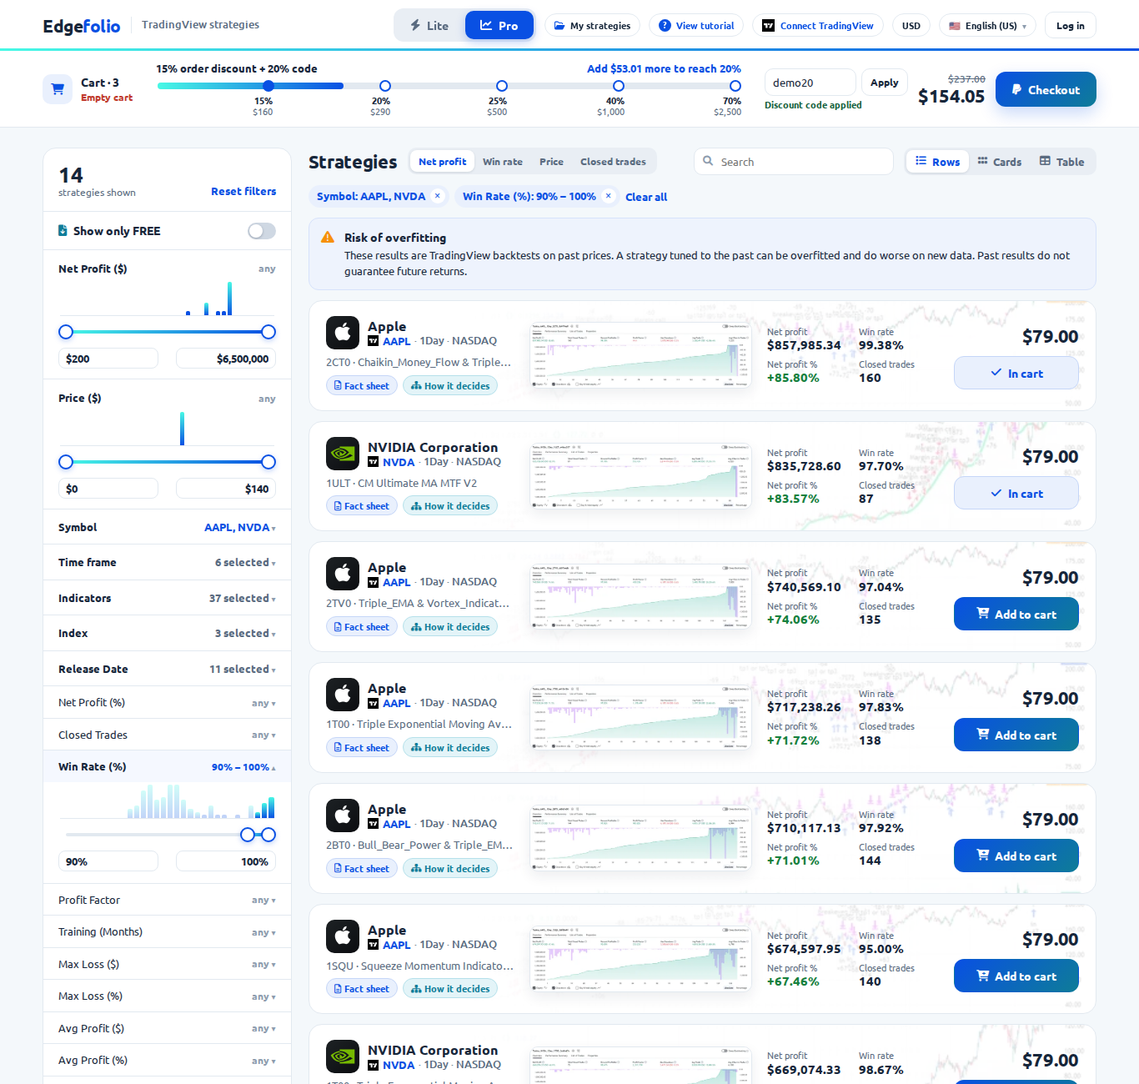
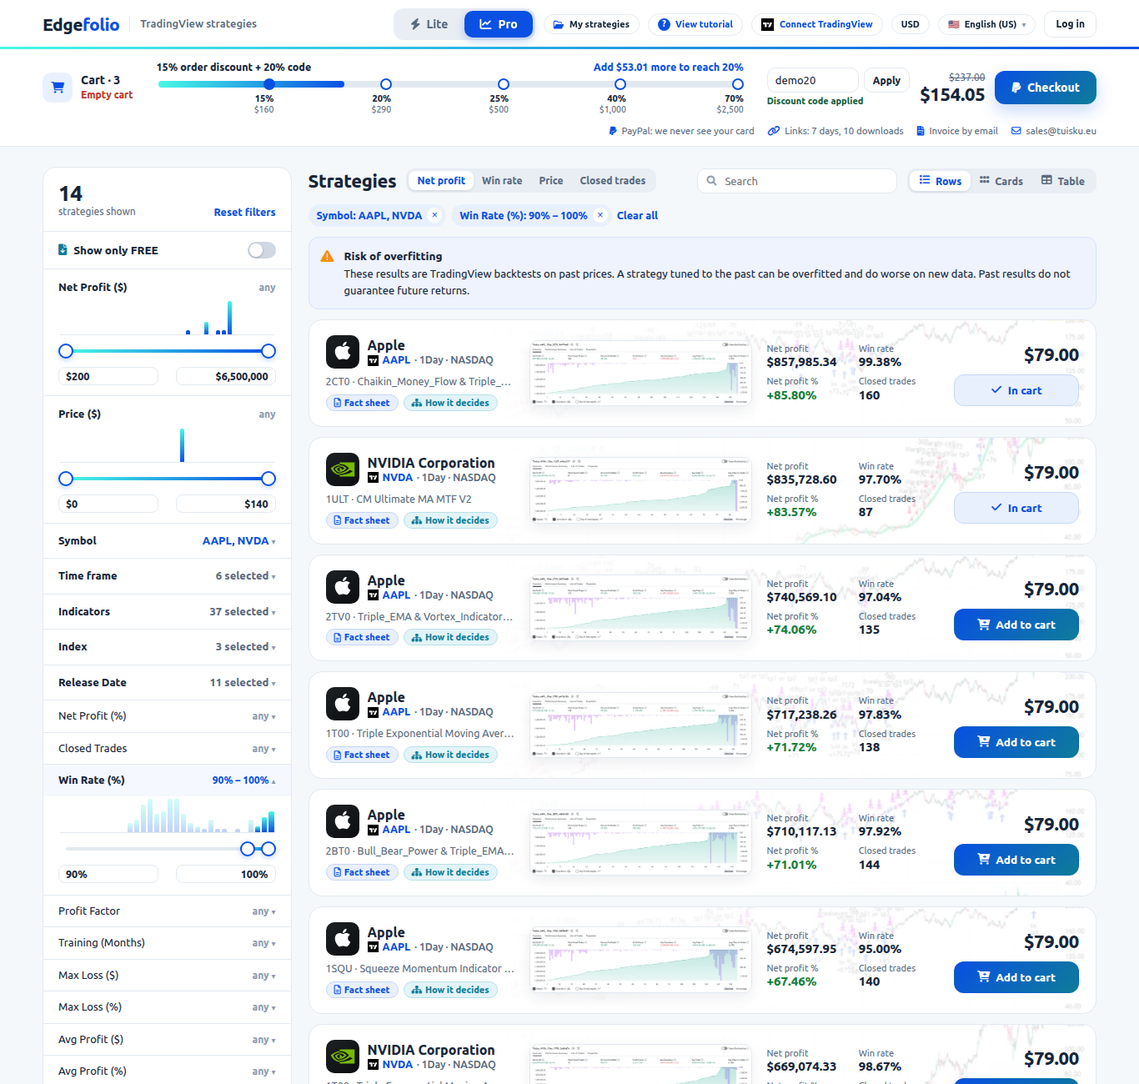
Trust row under Checkout (design export of 6 Oct) and the receipt email
- Lite floating cart and Pro cart strip show the design's trust row: PayPal,
  link lifetime and downloads (from DOWNLOAD_DAYS / MAX_DOWNLOADS), invoice
  by email and CONTACT_EMAIL (LTR in Arabic).
- "Invoice by email" is now true: the capture that turns an order PAID
  emails its receipt (core mail.send, in the page's language), line by line,
  without download links. No public address: no receipt, payment unaffected.
- docs/design and IMPLEMENTATION-v7.md updated to the new handoff; README
  and its Lite/Pro screenshots refreshed.

Claude-Session: https://claude.ai/code/session_012EAXLkwBLpxS2P3pKzZpSr

diff --git a/docs/design/Storefront v7.dc.html b/docs/design/Storefront v7.dc.html
@@ -142,6 +142,12 @@ a:hover{text-decoration:underline}
           <sc-if value="{{ codeOpen }}" hint-placeholder-val="{{ false }}"><span style="display:flex;gap:6px;align-items:center"><input value="{{ code }}" onChange="{{ onCode }}" placeholder="{{ tx.codePh }}" style="width:100px;font-family:inherit;font-size:13px;color:#16263a;border:1px solid #e2e9f0;border-radius:10px;padding:6px 9px"><button onClick="{{ applyCode }}" style="font-family:inherit;background:#fff;border:1px solid #e2e9f0;color:#16263a;font-weight:600;border-radius:10px;padding:6px 10px;font-size:12px;cursor:pointer">{{ tx.apply }}</button></span></sc-if>
           <span style="margin-inline-start:auto;text-align:end;line-height:1.15"><span style="display:block;font-size:11.5px;color:#5a6b80;text-decoration:line-through">{{ subtotal }}</span><span style="font-size:20px;font-weight:700;letter-spacing:-.3px">{{ total }}</span><sc-if value="{{ isLocal }}" hint-placeholder-val="{{ false }}"><span style="display:block;font-size:10.5px;color:#5a6b80">{{ payNote }}</span></sc-if></span>
           <button onClick="{{ checkout }}" style="font-family:inherit;background:#0950e3;border:none;color:#fff;font-weight:700;border-radius:12px;padding:12px 20px;font-size:14px;cursor:pointer;box-shadow:0 8px 20px rgba(9,80,227,.22);display:inline-flex;gap:8px;align-items:center"><i class="fa-brands fa-paypal"></i>{{ tx.checkout }}</button>
+          <div style="flex:1 1 100%;display:flex;flex-wrap:wrap;gap:6px 16px;padding-top:8px;border-top:1px solid #eef2f6;font-size:11.5px;color:#5a6b80">
+            <span style="display:inline-flex;gap:6px;align-items:center"><i class="fa-brands fa-paypal" style="color:#0950e3"></i>{{ tx.trustPaypal }}</span>
+            <span style="display:inline-flex;gap:6px;align-items:center"><i class="fa-solid fa-link" style="color:#0950e3"></i>{{ tx.trustLinks }}</span>
+            <span style="display:inline-flex;gap:6px;align-items:center"><i class="fa-solid fa-file-invoice" style="color:#0950e3"></i>{{ tx.trustInvoice }}</span>
+            <a href="mailto:sales@tuisku.eu" dir="ltr" style="display:inline-flex;gap:6px;align-items:center;color:#5a6b80;text-decoration:none"><i class="fa-regular fa-envelope" style="color:#0950e3"></i>sales@tuisku.eu</a>
+          </div>
         </div>
       </div>
     </sc-if>
@@ -164,6 +170,12 @@ a:hover{text-decoration:underline}
           <div style="display:flex;flex-direction:column;gap:2px"><div style="display:flex;gap:6px"><input value="{{ code }}" onChange="{{ onCode }}" placeholder="{{ tx.codePh }}" style="width:110px;font-family:inherit;font-size:13px;color:#16263a;border:1px solid #e2e9f0;border-radius:10px;padding:7px 9px"><button onClick="{{ applyCode }}" style="font-family:inherit;background:#fff;border:1px solid #e2e9f0;color:#16263a;font-weight:600;border-radius:10px;padding:7px 10px;font-size:12px;cursor:pointer">{{ tx.apply }}</button></div><span style="font-size:11px;font-weight:600;color:{{ codeMsgColor }}">{{ codeMsg }}</span></div>
           <div style="text-align:end;line-height:1.15"><div style="font-size:12px;color:#5a6b80;text-decoration:line-through">{{ subtotal }}</div><div style="font-size:22px;font-weight:700;letter-spacing:-.3px">{{ total }}</div></div>
           <button onClick="{{ checkout }}" style="font-family:inherit;background:linear-gradient(135deg,#0950e3,#0e7c98);border:none;color:#fff;font-weight:700;border-radius:12px;padding:12px 20px;font-size:14px;cursor:pointer;box-shadow:0 8px 20px rgba(9,80,227,.22);display:inline-flex;gap:8px;align-items:center"><i class="fa-brands fa-paypal"></i>{{ tx.checkout }}</button>
+        </div>
+        <div style="flex:1 1 100%;display:flex;flex-wrap:wrap;justify-content:flex-end;gap:6px 16px;font-size:11.5px;color:#5a6b80;margin-top:-4px">
+          <span style="display:inline-flex;gap:6px;align-items:center"><i class="fa-brands fa-paypal" style="color:#0950e3"></i>{{ tx.trustPaypal }}</span>
+          <span style="display:inline-flex;gap:6px;align-items:center"><i class="fa-solid fa-link" style="color:#0950e3"></i>{{ tx.trustLinks }}</span>
+          <span style="display:inline-flex;gap:6px;align-items:center"><i class="fa-solid fa-file-invoice" style="color:#0950e3"></i>{{ tx.trustInvoice }}</span>
+          <a href="mailto:sales@tuisku.eu" dir="ltr" style="display:inline-flex;gap:6px;align-items:center;color:#5a6b80;text-decoration:none"><i class="fa-regular fa-envelope" style="color:#0950e3"></i>sales@tuisku.eu</a>
         </div>
       </div>
     </div>

diff --git a/static/js/views/lite.js b/static/js/views/lite.js
@@ -83,6 +83,12 @@ export default function Lite(v) {
           ${v.codeOpen ? html`<span style="display:flex;gap:6px;align-items:center"><input value=${v.code ?? ''} onInput=${v.onCode} placeholder=${v.tx?.codePh} style="width:100px;font-family:inherit;font-size:13px;color:#16263a;border:1px solid #e2e9f0;border-radius:10px;padding:6px 9px" /><button onClick=${v.applyCode} style="font-family:inherit;background:#fff;border:1px solid #e2e9f0;color:#16263a;font-weight:600;border-radius:10px;padding:6px 10px;font-size:12px;cursor:pointer">${v.tx?.apply}</button></span>` : null}
           <span style="margin-inline-start:auto;text-align:end;line-height:1.15">${v.hasDiscount ? html`<span style="display:block;font-size:11.5px;color:#5a6b80;text-decoration:line-through">${v.subtotal}</span>` : null}<span style="font-size:20px;font-weight:700;letter-spacing:-.3px">${v.total}</span>${v.isLocal ? html`<span style="display:block;font-size:10.5px;color:#5a6b80">${v.payNote}</span>` : null}</span>
           <button onClick=${v.checkout} disabled=${v.paying} aria-busy=${v.paying} style="font-family:inherit;background:${s(v.payBgLite)};border:none;color:#fff;font-weight:700;border-radius:12px;padding:12px 20px;font-size:14px;cursor:${s(v.payCursor)};box-shadow:${s(v.payShadow)};display:inline-flex;gap:8px;align-items:center"><i class=${v.payIcon}></i>${T(v.tx?.checkout)}</button>
+          <div style="flex:1 1 100%;display:flex;flex-wrap:wrap;gap:6px 16px;padding-top:8px;border-top:1px solid #eef2f6;font-size:11.5px;color:#5a6b80">
+            <span style="display:inline-flex;gap:6px;align-items:center"><i class="fa-brands fa-paypal" style="color:#0950e3"></i>${T(v.tx?.trustPaypal)}</span>
+            <span style="display:inline-flex;gap:6px;align-items:center"><i class="fa-solid fa-link" style="color:#0950e3"></i>${T(v.tx?.trustLinks)}</span>
+            <span style="display:inline-flex;gap:6px;align-items:center"><i class="fa-solid fa-file-invoice" style="color:#0950e3"></i>${T(v.tx?.trustInvoice)}</span>
+            ${v.contactOn ? html`<a href=${v.contactUrl} dir="ltr" style="display:inline-flex;gap:6px;align-items:center;color:#5a6b80;text-decoration:none"><i class="fa-regular fa-envelope" style="color:#0950e3"></i>${v.contactEmail}</a>` : null}
+            </div>
           </div>
         </div>
       ` : null}

diff --git a/static/js/views/pro.js b/static/js/views/pro.js
@@ -21,6 +21,12 @@ export default function Pro(v) {
           <div style="text-align:end;line-height:1.15">${v.hasDiscount ? html`<div style="font-size:12px;color:#5a6b80;text-decoration:line-through">${v.subtotal}</div>` : null}<div style="font-size:22px;font-weight:700;letter-spacing:-.3px">${v.total}</div></div>
           <button onClick=${v.checkout} disabled=${v.paying} aria-busy=${v.paying} style="font-family:inherit;background:${s(v.payBgPro)};border:none;color:#fff;font-weight:700;border-radius:12px;padding:12px 20px;font-size:14px;cursor:${s(v.payCursor)};box-shadow:${s(v.payShadow)};display:inline-flex;gap:8px;align-items:center"><i class=${v.payIcon}></i>${T(v.tx?.checkout)}</button>
           </div>
+        <div style="flex:1 1 100%;display:flex;flex-wrap:wrap;justify-content:flex-end;gap:6px 16px;font-size:11.5px;color:#5a6b80;margin-top:-4px">
+          <span style="display:inline-flex;gap:6px;align-items:center"><i class="fa-brands fa-paypal" style="color:#0950e3"></i>${T(v.tx?.trustPaypal)}</span>
+          <span style="display:inline-flex;gap:6px;align-items:center"><i class="fa-solid fa-link" style="color:#0950e3"></i>${T(v.tx?.trustLinks)}</span>
+          <span style="display:inline-flex;gap:6px;align-items:center"><i class="fa-solid fa-file-invoice" style="color:#0950e3"></i>${T(v.tx?.trustInvoice)}</span>
+          ${v.contactOn ? html`<a href=${v.contactUrl} dir="ltr" style="display:inline-flex;gap:6px;align-items:center;color:#5a6b80;text-decoration:none"><i class="fa-regular fa-envelope" style="color:#0950e3"></i>${v.contactEmail}</a>` : null}
+          </div>
         </div>
       </div>
     <section style="flex:1 0 auto;width:100%;max-width:1320px;margin:0 auto;padding:24px 28px 0;display:flex;flex-wrap:wrap;gap:20px;align-items:flex-start">

diff --git a/static/js/lib/vals_pages.js b/static/js/lib/vals_pages.js
@@ -13,7 +13,7 @@ export function pageVals(c) {
   const errBottom = (s.vw < 640 ? 76 : 16) + (s.page === 'shop' && s.mode !== 'pro' && (s.cart.length + s.bundles.length > 0) ? 84 : 0);
   return {
     ...detailVals(c), ...compareVals(c), ...mineVals(c), ...thanksVals(c), ...installVals(c), ...freeVals(c),
-    ...LEGAL, legalOn: true, contactOn: !!c.contact, contactUrl: c.contact ? 'mailto:' + c.contact : '',
+    ...LEGAL, legalOn: true, contactOn: !!c.contact, contactUrl: c.contact ? 'mailto:' + c.contact : '', contactEmail: c.contact,
     errOpen: !!s.error, errTitle: tx.errServer, closeErr: () => app.setState({ error: '' }),
     errText: t(s.error, s.errorVars || undefined) + ((s.error === 'errPayment' || s.error === 'errLater' || s.error === 'errPayPal') && c.contact ? ' ' + t('contactProblems', { e: c.contact }) : ''),
     errBottom: errBottom + 'px',

diff --git a/static/js/lib/vals.js b/static/js/lib/vals.js
@@ -25,6 +25,8 @@ export function renderVals(app) {
   TX_KEYS.forEach(k => { tx[k] = t(k); });
   const contact = (s.cfg && s.cfg.contact_email) || '';
   tx.contactProblems = t('contactProblems', { e: contact });
+  // the trust row says what the server's settings say, not the design's example figures
+  tx.trustLinks = t('trustLinks', { n: f.int((s.cfg && s.cfg.download_days) || 7), m: f.int((s.cfg && s.cfg.max_downloads) || 10) });
 
   const c = { app, s, t, tx, f, lang, rtl, contact };
   c.mk = r => rowVals(c, r);

diff --git a/edgefolio/orders.py b/edgefolio/orders.py
@@ -7,6 +7,9 @@ puede pedirlo (va en la dirección de vuelta de PayPal). Los enlaces del recibo,
 navegador que hizo el pedido (su cookie de quien compra), a la cuenta que lo hizo con la sesión abierta
 o, si se compró sin cuenta, a una cuenta que ha demostrado que el correo del pedido es suyo. Cualquier
 otro recibe el recibo sin ellos (``links_hidden``).
+
+El primer cobro de un pedido manda además su recibo por correo (la «factura por correo» de la fila de
+confianza bajo el botón de pagar) al correo del pedido: el de la cuenta, o el de quien pagó en PayPal.
 """
 from __future__ import annotations
 
@@ -15,7 +18,7 @@ import re
 import secrets
 from datetime import timedelta
 from decimal import Decimal
-from typing import Iterable, Optional
+from typing import Callable, Iterable, Optional
 from urllib.parse import urlencode
 
 from sqlalchemy import update
@@ -105,9 +108,10 @@ def find(paypal_id: str) -> Optional[Order]:
     return db.session.get(Order, paypal_id)
 
 
-def capture(shop, paypal_id: str) -> Order:
+def capture(shop, paypal_id: str, on_paid: Optional[Callable[[Order], None]] = None) -> Order:
     """Cobrar en PayPal y comprobar que se pagó el total del pedido, en su moneda. Repetirlo (un fallo de
-    red) no cobra otra vez: un pedido pagado se devuelve tal cual."""
+    red) no cobra otra vez: un pedido pagado se devuelve tal cual. ``on_paid(order)`` corre una sola vez
+    por pedido, en el cobro que lo pasó a pagado (el recibo por correo)."""
     order = find(paypal_id)
     if order is None:
         raise Refusal("errUnknownOrder", 404)
@@ -122,14 +126,46 @@ def capture(shop, paypal_id: str) -> Order:
         db.session.commit()
         raise Refusal("errPayment", 402, paid=f"{cap.amount} {cap.currency} {cap.status}")
     # Una sola vez de CREATED a PAID, aunque lleguen dos cobros a la vez.
-    db.session.execute(update(Order).where(Order.paypal_id == paypal_id, Order.status != "PAID")
-                       .values(status="PAID", payer=cap.payer or ""))
+    paid = db.session.execute(update(Order).where(Order.paypal_id == paypal_id, Order.status != "PAID")
+                              .values(status="PAID", payer=cap.payer or "")).rowcount
     if not order.email and "@" in (cap.payer or ""):
         # Sin cuenta: el correo de PayPal es con el que una cuenta podrá demostrar que el pedido es suyo.
         db.session.execute(update(Order).where(Order.paypal_id == paypal_id).values(email=norm(cap.payer)))
     db.session.commit()
     db.session.refresh(order)
+    if paid and on_paid is not None:
+        on_paid(order)
     return order
+
+
+def money(value, currency: str) -> str:
+    return f"{Decimal(value):,.2f} {currency}"
+
+
+def email_receipt(shop, order: Order, lang: str, mine: str, mail) -> None:
+    """El recibo: el pedido línea a línea, el total y dónde están las descargas (``mine``, la dirección
+    de Mis estrategias). ``mail`` lo manda (el ``mail.send`` del núcleo, que nunca lanza): un correo que
+    no sale no deshace el pago, la página de gracias y Mis estrategias lo tienen todo."""
+    if not order.email:
+        return
+    settings, texts, catalogue, cur = shop.settings, shop.texts, shop.catalogue, order.currency
+    lines = order.lines or {}
+    out = []
+    for item in lines.get("items") or []:
+        s = catalogue.resolve(item["id"])
+        name = f"{s.row.get('Name') or s.ticker} ({s.ticker} · {s.key_techs} · {s.interval})" if s else item["id"]
+        out.append(f"{name}: {money(item['price'], cur)}")
+    for b in lines.get("bundles") or []:
+        bundle = catalogue.bundles.get(b["key"])
+        name = f"{texts.get(bundle.name_key, lang)} ({len(bundle.items)})" if bundle else b["key"]
+        out.append(f"{name}: {money(b['price'], cur)}")
+    pack = lines.get("pack")
+    if pack:
+        out.append(f"{texts.get('packTitle', lang)} ({len(pack['ids'])}): {money(pack['price'], cur)}")
+    body = texts.get("mailReceiptBody", lang, id=order.paypal_id, lines="\n".join("- " + line for line in out),
+                     total=money(order.total, cur), mine=mine, n=settings.download_days, m=settings.max_downloads,
+                     contact=settings.contact_email)
+    mail(order.email, texts.get("mailReceiptSubject", lang, id=order.paypal_id), body, kind="edgefolio-receipt")
 
 
 # ── los enlaces ──────────────────────────────────────────────────────────────

diff --git a/tests/test_receipt.py b/tests/test_receipt.py
@@ -1,0 +1,45 @@
+# -*- coding: utf-8 -*-
+"""El recibo por correo (la «factura por correo» de la fila de confianza bajo el botón de pagar): sale una
+vez, cuando el pago entra, en el idioma de la página que cobra."""
+from edgefolio import routes
+from tests.conftest import outbox
+
+AAPL, TSLA = "AAPL_1Day_1ADX_aaaa1111", "TSLA_1Day_1C00_dddd4444"
+
+
+def receipts():
+    return [m for m in outbox() if "Edgefolio" in m["subject"] and ("order" in m["subject"] or "pedido" in m["subject"])]
+
+
+def pay(client, body, lang="en"):
+    order = client.post("/api/orders", json=body)
+    assert order.status_code == 200, order.get_data(as_text=True)
+    order_id = order.json["id"]
+    return order_id, client.post(f"/api/orders/{order_id}/capture", headers={"Accept-Language": lang})
+
+
+def test_the_payer_gets_a_receipt_in_the_pages_language(client):
+    order_id, r = pay(client, {"items": [AAPL, TSLA]}, lang="es")
+    assert r.status_code == 200
+    [mail] = receipts()
+    assert mail["to"] == "buyer@example.com"                 # quien paga en el PayPal de prueba
+    assert mail["subject"] == f"Tu pedido de Edgefolio {order_id}"
+    body = mail["body"]
+    assert "- Apple (AAPL · 1ADX · 1Day): 79.00 USD" in body and "- Tesla (TSLA · 1C00 · 1Day): 50.00 USD" in body
+    assert "Total pagado con PayPal: 129.00 USD" in body and "/mine" in body and "7 días" in body
+
+
+def test_a_bundle_is_one_line_and_a_retry_sends_nothing_more(client):
+    order_id, _ = pay(client, {"bundles": ["duo"]})
+    assert client.post(f"/api/orders/{order_id}/capture").status_code == 200   # otra vez (un fallo de red)
+    [mail] = receipts()
+    assert mail["subject"] == f"Your Edgefolio order {order_id}"
+    assert "(2): 150.00 USD" in mail["body"] and "Total paid with PayPal: 150.00 USD" in mail["body"]
+
+
+def test_without_a_public_address_the_payment_still_goes_through(client, monkeypatch):
+    order_id = client.post("/api/orders", json={"items": [AAPL]}).json["id"]
+    # la dirección pública falta al cobrar (la vuelta de PayPal ya estaba hecha)
+    monkeypatch.setattr(routes, "external_url", lambda *a, **k: None)
+    r = client.post(f"/api/orders/{order_id}/capture")
+    assert r.status_code == 200 and r.json["status"] == "PAID" and receipts() == []

diff --git a/edgefolio/routes.py b/edgefolio/routes.py
@@ -200,10 +200,20 @@ def create_order():
 @bp.post("/api/orders/<paypal_id>/capture")
 @public
 def capture(paypal_id):
-    order = orders.capture(shop(), paypal_id)
+    order = orders.capture(shop(), paypal_id, on_paid=_email_receipt)
     uid = user_id()
     see = orders.may_see_links(order, request.cookies.get(BUYER_COOKIE), uid, proofs.proven(uid))
     return jsonify(orders.receipt(shop(), order, see))
+
+
+def _email_receipt(order):
+    """En el idioma de la página que cobra. Sin dirección pública que dar (producción sin
+    ZLECITOOL_PUBLIC_URL) no sale: lo pagado ya está pagado, y la página de gracias lo enseña igual."""
+    mine = external_url("edgefolio.mine_page", trusted_host_ok=False)
+    if mine is None:
+        current_app.logger.warning("Recibo sin mandar: falta ZLECITOOL_PUBLIC_URL | pedido=%s", order.paypal_id)
+        return
+    orders.email_receipt(shop(), order, request_language(), mine, send_mail)
 
 
 # ── descargar ────────────────────────────────────────────────────────────────

diff --git a/README.md b/README.md
@@ -128,7 +128,7 @@ python app.py                                             # http://localhost:510
 `.env.example` trae `PAYPAL_MODE=fake` y `DISCOUNT_CODES=demo20=0.20`: sin PayPal, «Pagar» va directo a la
 página de gracias como si se hubiera pagado, y el código `demo20` descuenta un 20 %. Sin
 `ZLECITOOL_SMTP_HOST`, **ningún correo sale**: el núcleo deja cada uno en `<datos>/mail/*.eml` (el enlace
-de una gratis, el de confirmar un correo, los avisos); se abren con cualquier lector de correo. Sin los
+de una gratis, el de confirmar un correo, los avisos, el recibo de una compra); se abren con cualquier lector de correo. Sin los
 scripts de pago todo funciona, y una descarga contesta que el fichero no está.
 
 ## Pruebas
@@ -150,6 +150,7 @@ repo; en un clon sin ella, se saltan.
 | `test_pricing.py`, `test_bundles.py` | los precios sólo del catálogo; los escalones y el código sumados con el tope del 70 %; los códigos de precio único; los lotes y el pack; una estrategia nunca dos veces; los lotes que se publican |
 | `test_search.py` | los filtros, el orden, las páginas y los histogramas contra el catálogo de verdad; que sean rápidos |
 | `test_orders.py` | pagar y descargar; el importe de PayPal comprobado; los enlaces que caducan y se gastan (también a la vez); el recibo con enlaces sólo para el navegador que compró, la cuenta que compró o la que demostró el correo |
+| `test_receipt.py` | el recibo por correo: una vez por pedido, en el idioma de la página, línea a línea; sin dirección pública no sale y el pago sigue |
 | `test_free.py` | las gratis por correo; el límite del día (también a la vez); las novedades con doble confirmación; el idioma del correo |
 | `test_mine.py` | Mis estrategias: lo de la cuenta y lo de un correo demostrado; renovar; las versiones nuevas; el script del propietario; las favoritas; el zip de un pedido |
 | `test_proofs.py` | la prueba de un correo: un uso, en dos pasos, sólo para la cuenta que la pidió, sólo hashes, sin llenar buzones, CSRF, el idioma |
@@ -173,6 +174,7 @@ navegador                                 servidor (edgefolio/)                 
   │ POST /api/orders/<id>/capture ────────▶ cobrar ─────────────────────────────────▶ el dinero se mueve
   │                                          ¿importe = total del pedido? ◀─────────┘
   │ ◀──────── recibo + un enlace por fichero (sólo a quien puede verlos)
+  │                                          el recibo, por correo a quien pagó
   │ GET /api/download/<token>[?format=zip] ▶ el fichero, de la carpeta privada
 ```
 
@@ -194,6 +196,13 @@ previas públicas van cortadas a 50 líneas de su primer árbol.
 HttpOnly, 30 días; en la base de datos sólo su hash), la cuenta que compró con la sesión abierta y, si se
 compró sin cuenta, una cuenta que ha demostrado el correo de PayPal. Cualquier otro (alguien con el id del
 pedido, que va en la dirección de vuelta de PayPal) recibe el recibo sin enlaces.
+
+**El recibo por correo** (la «factura por correo» que promete la fila de confianza bajo «Pagar»): el
+primer cobro de un pedido lo manda al correo del pedido (el de la cuenta o, sin cuenta, el de PayPal),
+en el idioma de la página: cada línea con lo que costó, el total, cuánto valen los enlaces y la
+dirección de Mis estrategias, sin enlaces de descarga (un correo no demuestra nada; ver abajo). Es un
+recibo, no una factura con datos fiscales: para eso da `CONTACT_EMAIL`. La misma fila enseña
+`DOWNLOAD_DAYS`, `MAX_DOWNLOADS` y `CONTACT_EMAIL` tal como estén configurados.
 
 ### Mis estrategias y la prueba de un correo
 

diff --git a/docs/IMPLEMENTATION-v7.md b/docs/IMPLEMENTATION-v7.md
@@ -10,7 +10,9 @@ The mock-up uses 8 sample strategies, and some of its figures are examples (mark
 >   bundles and the pack priced by the server, the grade (with the cut-offs of §2, still to agree),
 >   favourites with alert opt-ins and their daily emails (`flask --app app edgefolio send-alerts`), free
 >   download for an email (with double opt-in for news), local currency (`catalogue/fx.json`, refreshed by
->   `flask --app app edgefolio fx-update`), New this month, the previews.
+>   `flask --app app edgefolio fx-update`), New this month, the previews, the trust row under Checkout
+>   (its figures from `DOWNLOAD_DAYS`/`MAX_DOWNLOADS`, its address from `CONTACT_EMAIL`) and the receipt
+>   it promises, emailed on payment (a receipt, not a tax invoice).
 > - **Different:** the shop is a zlecitool tool (Flask on zlecitool-core, the files of `storefront/` are
 >   now `static/`, `templates/edgefolio/shop.html` and `i18n/ui.json`): the bar, the language menu and the
 >   footer are the core's shell, and My strategies uses the core's shared accounts; what was bought
@@ -92,6 +94,7 @@ It contains, top to bottom:
 ## 5. Flows
 
 - **Free download:** a dialog asks for an email. Getting news is a separate box, unticked by default (GDPR). The server emails the link.
+- **Trust row under Checkout** (Lite floating cart and Pro cart strip): `trustPaypal` (PayPal: we never see your card), `trustLinks` (Links: 7 days, 10 downloads), `trustInvoice` (Invoice by email) and a `mailto:sales@tuisku.eu` link. 11.5px, `#5a6b80`, icons `#0950e3`; it wraps on phones and the email stays LTR in Arabic. The texts are already in `i18n/storefront.ui.json` for all 8 languages.
 - **Checkout → thank-you page:** order number, total and PayPal; "Download all" and one `.pine` per item; a note on how long links last; 4 install steps.
 - **My strategies** (requires an account through the core's shared login):
   - every item bought or downloaded, with how long its link has left;
@@ -124,6 +127,7 @@ It contains, top to bottom:
 
 ## 8. Acceptance checklist
 
+- [ ] The trust row shows under Checkout in Lite and Pro, in all 8 languages.
 - [ ] Lite is the default, and Pro and the language are remembered across visits.
 - [ ] Every page reflows at 390, 768, 1024 and 1366px with no clipped text. The ticker line on cards wraps, it does not cut off.
 - [ ] Arabic flips the layout, the gradients, the slider directions and the ladder.

diff --git a/docs/design/HANDOFF.md b/docs/design/HANDOFF.md
@@ -4,6 +4,11 @@
 
 > Read `design_handoff_edgefolio_storefront/README.md` and `docs/IMPLEMENTATION-v7.md`. In `Leci37/tuisku_Web_selling`, create branch `design/edgefolio-v7` from `zlecitool_main`. Implement the steps in `PR_DESCRIPTION.md` in order, one commit each, keeping `pytest` green. Copy `docs/` into the repo's `docs/` and `prototype/*.dc.html` into `docs/design/`. Then open a pull request to `zlecitool_main` with `PR_DESCRIPTION.md` as its description.
 
+## What changed since the previous export (6 Oct 2026)
+
+- **Trust row under Checkout** (#7), in Lite and Pro. Spec in `docs/IMPLEMENTATION-v7.md` §5 and §8.
+- Changed files: `prototype/Storefront v7.dc.html` and `docs/IMPLEMENTATION-v7.md`. The texts were already in `prototype/i18n/storefront.ui.json`.
+
 ## Overview
 
 A redesign of the strategy shop in `Leci37/tuisku_Web_selling` (branch `zlecitool_main`, folders `storefront/` and `api/`), sold as **Edgefolio**. It covers:
